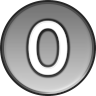
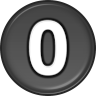
- Update ZHS translation - Adjust cost filter button images - Add blessing type - Fix summon frame not matching BG

diff --git a/src/main/java/extendedui/EUIGameUtils.java b/src/main/java/extendedui/EUIGameUtils.java
@@ -45,7 +45,7 @@ import java.util.HashMap;
 
 import static com.megacrit.cardcrawl.dungeons.AbstractDungeon.*;
 
-// Copied and modified from https://github.com/EatYourBeetS/STS-AnimatorMod and https://github.com/SevenDayCandle/STS-FoolMod
+// Copied and modified from https://github.com/EatYourBeetS/STS-AnimatorMod
 
 public class EUIGameUtils {
     private static final HashMap<AbstractCard.CardColor, String> CUSTOM_COLOR_NAMES = new HashMap<>();

diff --git a/src/main/java/extendedui/EUIRenderHelpers.java b/src/main/java/extendedui/EUIRenderHelpers.java
@@ -25,7 +25,7 @@ import java.io.ByteArrayOutputStream;
 import java.io.IOException;
 import java.util.ArrayList;
 
-// Copied and modified from https://github.com/EatYourBeetS/STS-AnimatorMod and https://github.com/SevenDayCandle/STS-FoolMod
+// Copied and modified from https://github.com/EatYourBeetS/STS-AnimatorMod
 
 public class EUIRenderHelpers {
     private static final String SHADER_BICOLOR_FRAGMENT = "shaders/bicolorFragment.glsl";

diff --git a/src/main/java/extendedui/EUIUtils.java b/src/main/java/extendedui/EUIUtils.java
@@ -26,7 +26,7 @@ import java.util.*;
 import java.util.stream.Collectors;
 import java.util.stream.Stream;
 
-// Copied and modified from https://github.com/EatYourBeetS/STS-AnimatorMod and https://github.com/SevenDayCandle/STS-FoolMod
+// Copied and modified from https://github.com/EatYourBeetS/STS-AnimatorMod
 
 public abstract class EUIUtils {
     private static final Gson GsonReader = new Gson();
